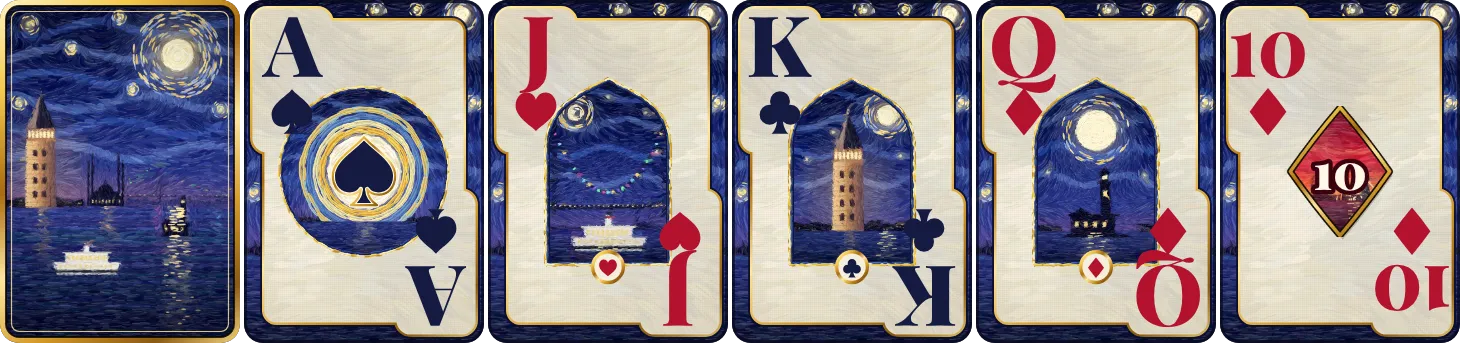
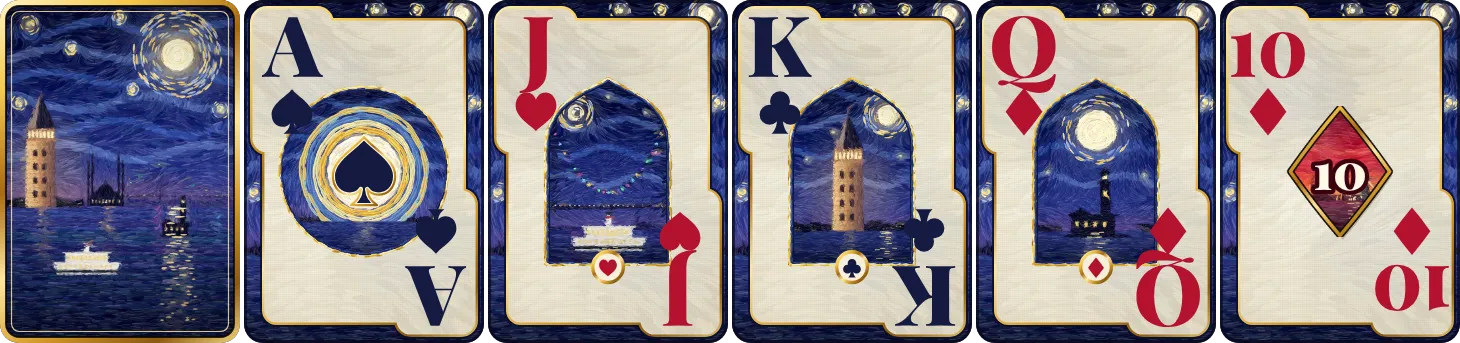
WIP (agents): Kapadokya sun fix, cross-table deck checks
Claude-Session: https://claude.ai/code/session_01CsFEdfga1NVSso6TsM8PXG

diff --git a/kahvehane/game/src/themes/oil.ts b/kahvehane/game/src/themes/oil.ts
@@ -13,6 +13,13 @@ import {due, runJobSync, type Job} from '../skins/kit';
 import {clamp, makeCanvas, mix, mulberry, smooth, spotOf, type Ctx, type RGB, type Rnd} from './paint';
 
 // ───────────────────────── referans ─────────────────────────
+/** Okunacak (getImageData) küçük tuval: CPU'da tutulur, GPU'dan geri okuma beklemesi olmaz. */
+function readCanvas(w: number, h: number): [HTMLCanvasElement, Ctx] {
+  const c = document.createElement('canvas');
+  c.width = Math.max(1, Math.round(w));
+  c.height = Math.max(1, Math.round(h));
+  return [c, c.getContext('2d', {willReadFrequently: true})!];
+}
 export interface Ref {
   w: number;
   h: number;
@@ -24,7 +31,7 @@ export type Calm = (x: number, y: number) => number;
 
 /** Referans sahneyi çiz: `draw` tasarım biriminde çalışır. `calm` + `tone` verilirse sakin bölgeler bastırılır (dilimli). */
 export function* makeRefJ(W: number, H: number, k: number, draw: (g: Ctx) => void, calm?: Calm, tone: RGB = [10, 14, 40], amount = 0.62): Job<Ref> {
-  const [c, g] = makeCanvas(Math.ceil(W * k), Math.ceil(H * k));
+  const [c, g] = readCanvas(Math.ceil(W * k), Math.ceil(H * k));
   g.save();
   g.scale(k, k);
   draw(g);
@@ -57,7 +64,7 @@ export const makeRef = (W: number, H: number, k: number, draw: (g: Ctx) => void,
 
 /** Nesne kimlik haritası: `draw` her nesneyi kendi kimlik rengiyle (R kanalı = kimlik) doldurur; yumuşatma kapalı. */
 export function makeIdMap(W: number, H: number, k: number, draw: (g: Ctx, id: (n: number) => string) => void): Ref {
-  const [c, g] = makeCanvas(Math.ceil(W * k), Math.ceil(H * k));
+  const [c, g] = readCanvas(Math.ceil(W * k), Math.ceil(H * k));
   g.imageSmoothingEnabled = false;
   g.save();
   g.scale(k, k);
@@ -147,31 +154,31 @@ function thin(pts: number[], n: number): number[] {
   o.push(pts[n * 2 - 2], pts[n * 2 - 1]);
   return o;
 }
-/** Akım çizgisini sivri uçlu fırça çokgeni olarak yola ekler (ortası dolgun). */
+/** Akım çizgisini sivri uçlu fırça çokgeni olarak yola ekler (ortası dolgun). Ara dizi ayırmaz (iki geçiş). */
 function poly(p: Path2D, pts: number[], n: number, hw: number, ox: number, oy: number, taper: number): void {
-  const L: number[] = [], R: number[] = [];
-  for (let i = 0; i < n; i++) {
-    const a = Math.max(0, i - 1), z = Math.min(n - 1, i + 1);
-    let dx = pts[z * 2] - pts[a * 2], dy = pts[z * 2 + 1] - pts[a * 2 + 1];
-    const d = Math.sqrt(dx * dx + dy * dy) || 1;
-    dx /= d;
-    dy /= d;
-    const t = n === 1 ? 0.5 : i / (n - 1);
-    const w = hw * (1 - taper * 0.45 + taper * 0.45 * Math.sin(Math.PI * t));
-    const x = pts[i * 2] + ox, y = pts[i * 2 + 1] + oy;
-    L.push(x - dy * w, y + dx * w);
-    R.push(x + dy * w, y - dx * w);
-  }
   const x0 = pts[0] + ox, y0 = pts[1] + oy, x1 = pts[n * 2 - 2] + ox, y1 = pts[n * 2 - 1] + oy;
   let ex = pts[2] - pts[0], ey = pts[3] - pts[1];
   let e = Math.sqrt(ex * ex + ey * ey) || 1;
   p.moveTo(x0 - (ex / e) * hw * 0.6, y0 - (ey / e) * hw * 0.6);
-  for (let i = 0; i < L.length; i += 2) p.lineTo(L[i], L[i + 1]);
-  ex = pts[n * 2 - 2] - pts[n * 2 - 4];
-  ey = pts[n * 2 - 1] - pts[n * 2 - 3];
-  e = Math.sqrt(ex * ex + ey * ey) || 1;
-  p.lineTo(x1 + (ex / e) * hw * 0.75, y1 + (ey / e) * hw * 0.75);
-  for (let i = R.length - 2; i >= 0; i -= 2) p.lineTo(R[i], R[i + 1]);
+  const k0 = 1 - taper * 0.45, k1 = taper * 0.45, inv = n === 1 ? 0 : 1 / (n - 1);
+  for (let side = 1; side >= -1; side -= 2) {
+    if (side < 0) {
+      ex = pts[n * 2 - 2] - pts[n * 2 - 4];
+      ey = pts[n * 2 - 1] - pts[n * 2 - 3];
+      e = Math.sqrt(ex * ex + ey * ey) || 1;
+      p.lineTo(x1 + (ex / e) * hw * 0.75, y1 + (ey / e) * hw * 0.75);
+    }
+    for (let q = 0; q < n; q++) {
+      const i = side > 0 ? q : n - 1 - q;
+      const a = i > 0 ? i - 1 : 0, z = i < n - 1 ? i + 1 : n - 1;
+      let dx = pts[z * 2] - pts[a * 2], dy = pts[z * 2 + 1] - pts[a * 2 + 1];
+      const d = Math.sqrt(dx * dx + dy * dy) || 1;
+      dx /= d;
+      dy /= d;
+      const w = hw * (k0 + k1 * Math.sin(Math.PI * (n === 1 ? 0.5 : i * inv))) * side;
+      p.lineTo(pts[i * 2] + ox - dy * w, pts[i * 2 + 1] + oy + dx * w);
+    }
+  }
   p.closePath();
 }
 
@@ -361,7 +368,7 @@ export function tableCalm(W: number, H: number): Calm {
 // ───────────────────────── küçük resimler (deste kartları) ─────────────────────────
 /** Şekil maskesi: `draw` doldurduğu yer 1, gerisi 0 (tasarım biriminde, en yakın piksel). */
 export function maskOf(W: number, H: number, draw: (g: Ctx) => void, k = 0.5): (x: number, y: number) => number {
-  const [c, g] = makeCanvas(Math.ceil(W * k), Math.ceil(H * k));
+  const [c, g] = readCanvas(Math.ceil(W * k), Math.ceil(H * k));
   g.scale(k, k);
   g.fillStyle = '#fff';
   draw(g);

diff --git a/kahvehane/game/src/ui/shop.ts b/kahvehane/game/src/ui/shop.ts
@@ -15,7 +15,7 @@ import {ANIM, EASE, Scope, bump, center, clamp, esc, fmt, h, hms, play, q, shake
 import {ASSETS} from './assets';
 import {I} from './icons';
 import {charAvatarHtml, onAct, openSheet, rarityHtml, starsHtml, stampWord, toast, type ModalHandle} from './parts';
-import {fanHtml, frameJob, fxStillHtml, mountFx, mountFxStill, paintTableLater, tableSceneHtml, warmPreviews, type FxLoop} from './previews';
+import {fanHtml, frameJob, fxStillHtml, idleJob, mountFx, mountFxStill, paintTableLater, tableSceneHtml, warmPreviews, type FxLoop} from './previews';
 import {BADGE_NAME, RANK, badgeOf, setOf, setById, setPrice, shopSets, type ShopSet} from './sets';
 import {Spotlight, glint, glintHtml, mountDeckViewer} from './showcase';
 import {deckOr} from './deckpv';
@@ -184,6 +184,13 @@ const secHtml = (title: string, sub = '', icon = ''): string =>
 type Chunk = (() => string) | {into: string; html: () => string};
 /** İki parçayı tek parça yap (ilk ekranı doldurmak için) */
 const join2 = (a: Chunk | undefined, b: Chunk | undefined): Chunk => () => (a ? (a as () => string)() : '') + (b ? (b as () => string)() : '');
+/** Parça dizgesi bir kez üretilir: sıradaki parçalar boşta önceden hazırlanır, ekleme karesinde yalnız ayrıştırma kalır */
+const once = (f: () => string): (() => string) => {
+  let s: string | undefined;
+  return () => (s ??= f());
+};
+const memo = (c: Chunk): Chunk => (typeof c === 'function' ? once(c) : {into: c.into, html: once(c.html)});
+const chunkStr = (c: Chunk): string => (typeof c === 'function' ? c() : c.html());
 
 interface Panel {
   el: HTMLElement;
@@ -319,7 +326,7 @@ export class ShopPage implements Page {
     if (!p || p.sig !== sig) {
       const el = h('div', `kh-shop__panel is-${this.tab}`);
       // ilk ekran hemen, kalanı kare kare (sekme açılışı tek büyük görev olmasın)
-      const chunks = this.panelChunks(this.tab);
+      const chunks = this.panelChunks(this.tab).map(memo);
       el.innerHTML = (chunks[0] as () => string)();
       if (p) p.el.replaceWith(el);
       else this.body.append(el);
@@ -328,6 +335,8 @@ export class ShopPage implements Page {
       fresh = true;
       // kalan parçalar giriş kayması BİTTİKTEN sonra (sayfa: 380+60 ms, alt sekme: 300 ms) ve gerektikçe eklenir
       const pp = p;
+      // kayma sürerken (ana iş parçacığı boşken) ilk bekleyen parçaların dizgeleri hazırlanır
+      this.prime(pp, 2);
       const go = (): void => {
         pp.ready = true;
         this.fill();
@@ -365,7 +374,8 @@ export class ShopPage implements Page {
       this.fillQueued = false;
       if (!this.scope.alive || !p.el.isConnected || this.panels.get(this.tab) !== p || !this.visible) return;
       const b = this.body;
-      const need = b.scrollHeight - b.scrollTop - b.clientHeight < b.clientHeight * this.fillMargin || b.scrollHeight < p.scroll + b.clientHeight * 1.5;
+      // görünen ekran dolana dek (kaydırırken bir boy önden); yeniden kurulan panelde eski kaydırma yerine varana dek
+      const need = b.scrollHeight - b.scrollTop - b.clientHeight < b.clientHeight * this.fillMargin || (p.scroll > 0 && b.scrollHeight < p.scroll + b.clientHeight * 1.5);
       if (!need) return void (this.fillMargin = 0);
       const c = p.pending.shift()!;
       if (typeof c === 'function') p.el.insertAdjacentHTML('beforeend', c());
@@ -375,8 +385,14 @@ export class ShopPage implements Page {
       }
       hydrate(p.el);
       if (p.scroll && b.scrollTop !== p.scroll && b.scrollHeight >= p.scroll + b.clientHeight) b.scrollTop = p.scroll;
+      this.prime(p, 1);
       this.fill();
     });
+  }
+
+  /** Sıradaki n parçanın dizgesini boşta üret (ekleme karesi kısa kalsın) */
+  private prime(p: Panel, n: number): void {
+    for (const c of p.pending.slice(0, n)) idleJob(() => this.scope.alive && this.panels.get(this.tab) === p && void chunkStr(c));
   }
 
   private panelChunks(tab: ShopTab): Chunk[] {

diff --git a/kahvehane/game/src/ui/profile.ts b/kahvehane/game/src/ui/profile.ts
@@ -26,7 +26,7 @@ export class CollectionPage implements Page {
     onAct(this.scope, this.el, (a, b) => this.act(a, b));
     let raf = 0;
     this.scope.on(this.inner, 'scroll', () => {
-      if (!raf) raf = requestAnimationFrame(() => ((raf = 0), this.fillRows()));
+      if (!raf) raf = requestAnimationFrame(() => ((raf = 0), (this.rowMargin = 0.9), this.fillRows()));
     }, {passive: true});
     this.scope.add(() => cancelAnimationFrame(raf));
     // içerik ilk show()'da kurulur
@@ -40,6 +40,8 @@ export class CollectionPage implements Page {
   private rowsReady = false;
   private rowQueued = false;
   private rowHtml: (row: HTMLElement) => void = () => undefined;
+  /** Satır ekrana ne kadar (ekran boyu cinsinden) yaklaşınca dolsun: açılışta 0 (yalnız görünen), kaydırınca önden */
+  private rowMargin = 0;
   private fillRows(): void {
     if (!this.rowsReady || this.rowQueued || !this.rows.length) return;
     this.rowQueued = true;
@@ -48,7 +50,7 @@ export class CollectionPage implements Page {
       const row = this.rows[0];
       if (!row || !row.isConnected) return void (this.rows = []);
       const view = this.inner.getBoundingClientRect();
-      if (view.height && row.getBoundingClientRect().top > view.bottom + view.height * 0.9) return;
+      if (view.height && row.getBoundingClientRect().top > view.bottom + view.height * this.rowMargin) return;
       this.rows.shift();
       this.rowHtml(row);
       this.fillRows();
@@ -182,6 +184,7 @@ export class CollectionPage implements Page {
       this.fillRows();
     }, delay);
     this.rowsReady = sync;
+    this.rowMargin = 0;
     this.rows = Array.from(this.inner.querySelectorAll<HTMLElement>('.kh-ckind__row'));
     this.rowHtml = (row: HTMLElement): void => {
         const kd = row.dataset.kind as ItemKind;

diff --git a/kahvehane/game/src/themes/kapadokya.ts b/kahvehane/game/src/themes/kapadokya.ts
@@ -146,9 +146,13 @@ function* paint(w: number, h: number, dpr: number): Job<HTMLCanvasElement> {
 
   // ── ışık: güneş çevresi, balonların ışıklı yanları, bacaların güneşe bakan kenarları ──
   const dabs = new Oil();
-  for (let i = 0; i < 26; i++) {
-    const rr = sun.r * Math.sqrt(rnd()) * 0.9, a = rnd() * Math.PI * 2, x = sun.x + Math.cos(a) * rr, y = sun.y + Math.sin(a) * rr;
-    dabs.add([x - 3 * U, y, x + 3 * U, y + (rnd() - 0.5) * U], (2.4 + rnd() * 1.4) * U, rnd() < 0.5 ? [255, 250, 226] : [255, 236, 180], 0.2);
+  // güneş: merkez çevresinde teğet, kalın açık darbeler — yalnız gökte (önündeki peri bacalarının üstüne taşmaz)
+  for (let i = 0; i < 40; i++) {
+    const rr = sun.r * (0.15 + Math.sqrt(rnd()) * 0.8), a = rnd() * Math.PI * 2, x = sun.x + Math.cos(a) * rr, y = sun.y + Math.sin(a) * rr;
+    if (idAt(ids, x, y) !== 0 || calm(x, y) > 0.6) continue;
+    const da = (5 * U) / rr, pts: number[] = [];
+    for (let q = 0; q <= 3; q++) pts.push(sun.x + Math.cos(a + (da * q) / 3) * rr, sun.y + Math.sin(a + (da * q) / 3) * rr);
+    dabs.add(pts, (2.2 + rnd() * 1.2) * U, rnd() < 0.5 ? [255, 250, 226] : [255, 236, 180], 0.2);
   }
   lightDabs(dabs, ref, rnd, 0, 0, W, hz + H * 0.06, 205, 2.2 * U, calm);
   dabs.flush(g);

diff --git a/kahvehane/game/src/ui/previews.ts b/kahvehane/game/src/ui/previews.ts
@@ -283,6 +283,9 @@ export function warmPreviews(ids: {decks: string[]; tables: string[]; frames: st
     ...ids.frames.map(f => `<span class="kh-ava kh-frame kh-frame--${esc(f)} kh-warm__a"><span class="kh-ava__clip"></span></span>`),
   ];
   const start = (): void => {
+    // Nunito 600'ün Türkçe (latin-ext) dilimi ilk koleksiyon açılışında yükleniyordu: yüklenince Nunito kullanan tüm
+    // metin yeniden yerleşir (açılış kayması sırasında ~40 ms kare). Boşta önceden yükle.
+    idleJob(() => void document.fonts?.load('600 16px Nunito', 'ğüşıöçĞÜŞİÖÇ').catch(() => undefined));
     document.body.append(box);
     for (const g of groups) idleJob(() => box.insertAdjacentHTML('beforeend', g));
     rasterFrames(ids.frames);
